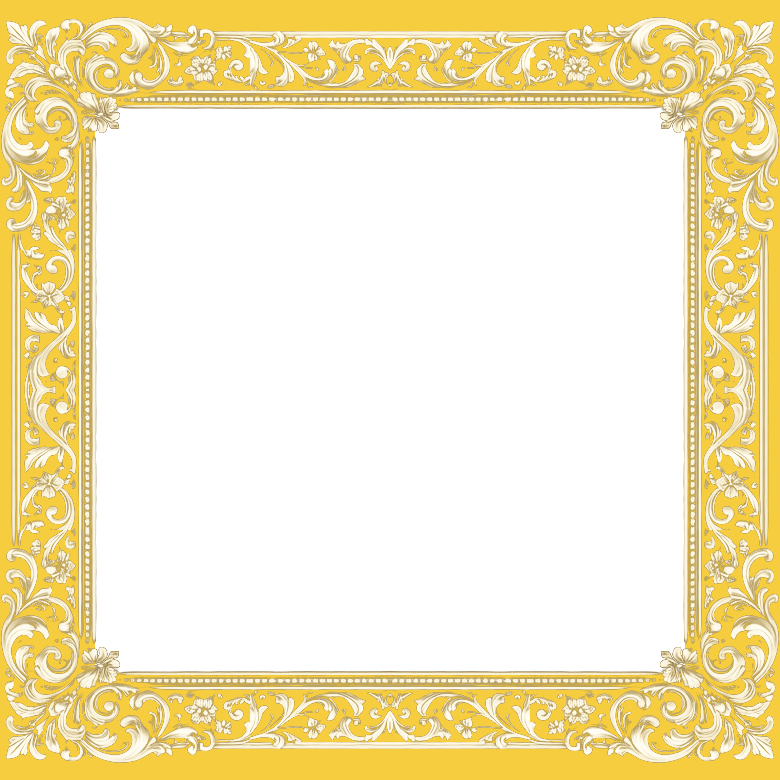
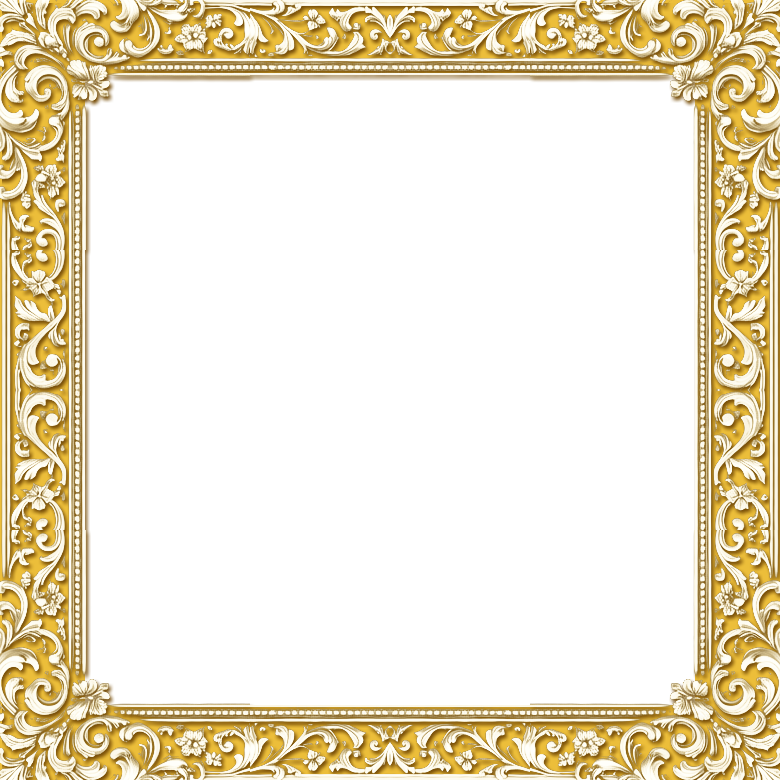
fix: GR frame top and bottom now show the filigree (the source strip had an empty margin), white pattern gets an engraved shadow so the gold ground no longer swallows it

diff --git a/components/cards/rarity.ts b/components/cards/rarity.ts
@@ -253,7 +253,7 @@ export const RARITY: Record<Rarity, RarityLook> = {
   SSR: { ornament: "dove", ornamentSize: 18, ornamentOpacity: 1, ornamentMetal: "gold", foil: 0.1, glare: true, tilt: 16, shine: true, sheen: true, prism: false, mark: "text-amber-600", metal: "linear-gradient(180deg,#fffbe6 0%,#fde68a 36%,#f59e0b 52%,#fcd34d 74%,#b45309 100%)" },
   UR: { ornament: "ur", ornamentSize: 13, ornamentOpacity: 1, ornamentMetal: "gold", foil: 0.16, glare: true, tilt: 16, shine: true, sheen: true, prism: true, mark: "text-fuchsia-600", metal: "linear-gradient(120deg,#f9a8d4 0%,#fde68a 22%,#86efac 42%,#7dd3fc 62%,#c4b5fd 82%,#f9a8d4 100%)" },
   // GR (God Rate, above UR): no rainbow. A white-gold frame, a nearly still card, and a slow divine light around and over it.
-  GR: { ornament: "gr", ornamentSize: 14.5, ornamentOpacity: 1, ornamentMetal: "gold", foil: 0, glare: true, tilt: 7, shine: false, sheen: true, prism: false, divine: true, mark: "text-amber-300", metal: "linear-gradient(180deg,#ffffff 0%,#fff3c4 40%,#f5d36a 60%,#fffbe8 100%)" },
+  GR: { ornament: "gr", ornamentSize: 16, ornamentOpacity: 1, ornamentMetal: "gold", foil: 0, glare: true, tilt: 7, shine: false, sheen: true, prism: false, divine: true, mark: "text-amber-300", metal: "linear-gradient(180deg,#ffffff 0%,#fff3c4 40%,#f5d36a 60%,#fffbe8 100%)" },
 };
 
 /** The tiers that have at least one card, highest first (a tier with no card yet, like GR, stays out of the filters). */
